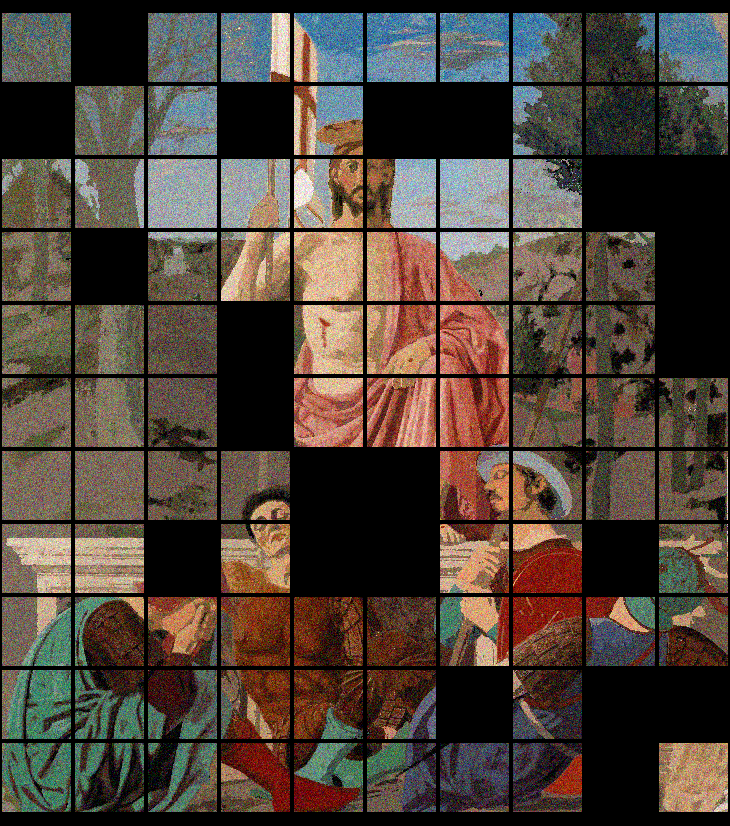
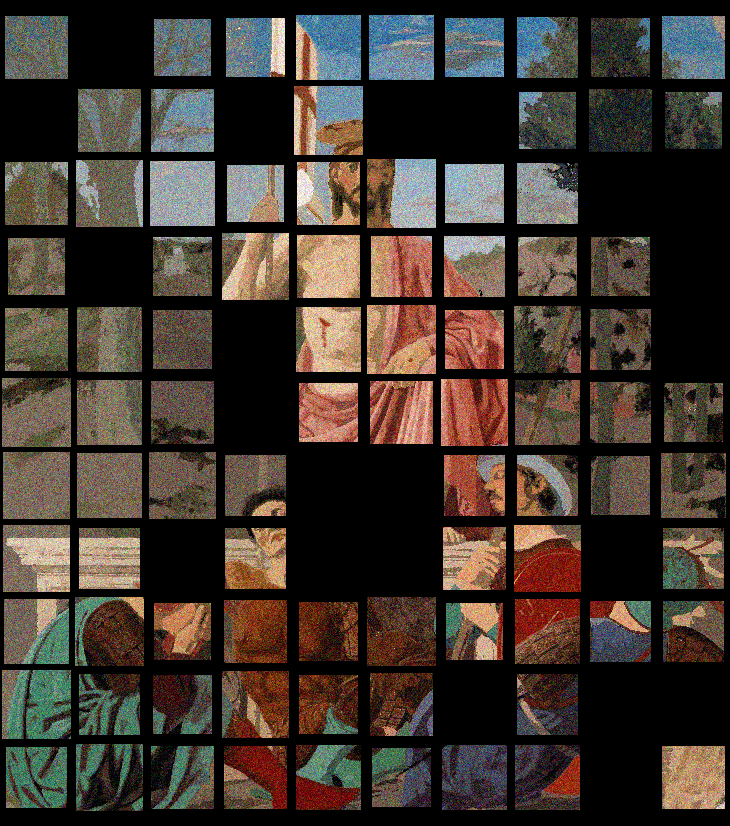
commit

diff --git a/simulated_frescoes_generation/irregular_dafne2/generate_dataset.m b/simulated_frescoes_generation/irregular_dafne2/generate_dataset.m
@@ -27,23 +27,23 @@ function generate_dataset()
 
         % Parameters
         seed                            = 1;                                                                                              % Seed used for pseudo random number generator (<0=random, >0=fixed seed for reproductibility)
-        verbose                         = false;                                                                                          % Enables/disables display of messages on command window (true or false)
+        verbose                         = true;                                                                                          % Enables/disables display of messages on command window (true or false)
         grayscale_conversion            = false;                                                                                          % Enables/disables grayscale conversion of both fresco and fragment images (true or false)
         interpolation_type              = 'nearest';                                                                                      % Interpolation type for reconstructing frescoes from fragments (nearest, bilinear, bicubic, etc.)
         nb_attempts                     = 100;                                                                                            % Number of attempts when extracting random patches from fresco images (>0)
         padding_factor                  = 1.2;                                                                                            % Factor by which fragment images are enlarged before saving; e.g. 1.2 means 20% of enlargement (>=0)
-        fragments_palette_sizes         = [10,256];                                                                                       % Reduced number of color for fading on fragment images (vector with entries in {0,...,256})
-        fragments_erosion_rates         = [0.0,0.003];                                                                                    % Percentages of fragments erosion, relatively to the fresco image size (vector with entries in [0,1])
-        fragments_noise_stds            = [0.0,0.01];                                                                                     % Standard deviations of Gaussian noise applied on each fragment (vector of positive reals)
-        fragments_missing_rates         = [0.0,0.2];                                                                                      % Percentages of missing fragments (vector with entries in [0,1])
-        fragments_spurious_rates        = [0.0,0.2];                                                                                      % Percentages of spurious fragments (vector with entries in [0,1])
-        fragments_erosion_factors_range = [1.0,1.0];                                                                                      % Range of erosion factors for varying erosion radii in the same fresco (pair of positive reals)
+        fragments_palette_sizes         = [10];                                                                                       % Reduced number of color for fading on fragment images (vector with entries in {0,...,256})
+        fragments_erosion_rates         = [0.003];                                                                                    % Percentages of fragments erosion, relatively to the fresco image size (vector with entries in [0,1])
+        fragments_noise_stds            = [0.01];                                                                                     % Standard deviations of Gaussian noise applied on each fragment (vector of positive reals)
+        fragments_missing_rates         = [0.2];                                                                                      % Percentages of missing fragments (vector with entries in [0,1])
+        fragments_spurious_rates        = [0.2];                                                                                      % Percentages of spurious fragments (vector with entries in [0,1])
+        fragments_erosion_factors_range = [1.0,4.0];                                                                                      % Range of erosion factors for varying erosion radii in the same fresco (pair of positive reals)
         fragments_scale_factors_range   = [1.0,1.0];                                                                                      % Range of scale factors of spuriously generated fragments (pair of positive reals)
-        fresco_palette_sizes            = [10,256];                                                                                       % Reduced number of color for fading on fresco image (vector with entries in {0,...,256})
+        fresco_palette_sizes            = [10];                                                                                       % Reduced number of color for fading on fresco image (vector with entries in {0,...,256})
         fresco_missing_parts_rates      = 0.0:0.1:1.0;                                                                                    % Percentages of missing parts of the fresco image (vector with entries in [0,1])
         fresco_missing_parts_params     = struct('type', 'power_law', 'exponent', 1.8);                                                   % Parameters for simulating degradations of the fresco image (struct)
-        fresco_noise_stds               = [0.0,0.01];                                                                                     % Standard deviations of Gaussian noise of the fresco image (vector of positive reals)
-        fresco_fragmentation_min_dists  = [0.05,0.10,0.15];                                                                               % Minimum distances between sampled location of fragments, relatively to the fresco image size (vector of positive reals)
+        fresco_noise_stds               = [0.01];                                                                                     % Standard deviations of Gaussian noise of the fresco image (vector of positive reals)
+        fresco_fragmentation_min_dists  = [0.1];                                                                               % Minimum distances between sampled location of fragments, relatively to the fresco image size (vector of positive reals)
         fresco_fragmentation_params     = struct('noise_exponent', 1.0, 'uncertainty_band_size', 0.5, ...
                                                  'beta', 0.5, 'metric', 'euclidean');                                                     % Parameters for simulating fragmentation of frescoes (struct)
         input_frescoes_dir              = ['..' filesep '..' filesep '..' filesep 'data' filesep 'simulated' filesep 'irregular_dafne1']; % Input frescoes directory (string)
@@ -80,8 +80,8 @@ function generate_dataset()
         end
 
         % We loop over input fresco filenames
-        %parfor i=1:numel(input_frescoes_fns)
-        for i=1:numel(input_frescoes_fns)
+        %for i=1:numel(input_frescoes_fns)
+        for i=46
             % We create output directory or delete it
             [~,fresco_name,~] = fileparts(input_frescoes_fns{i});
             all_other_fns     = setdiff(input_frescoes_fns, input_frescoes_fns{i});
@@ -96,7 +96,6 @@ function generate_dataset()
 
             % We load fresco image and get its size
             [im_fresco_color,~] = load_image(input_frescoes_fns{i}, grayscale_conversion);
-            im_fresco_color     = imresize(im_fresco_color, 0.25);
             fresco_size         = size(im_fresco_color,[1,2]);
             nb_channels         = size(im_fresco_color,3);
 

diff --git a/simulated_frescoes_generation/regular/generate_dataset.m b/simulated_frescoes_generation/regular/generate_dataset.m
@@ -24,24 +24,24 @@ function generate_dataset()
 
         % Parameters
         seed                            = 1;                                                                                              % Seed used for pseudo random number generator (<0=random, >0=fixed seed for reproductibility)
-        verbose                         = true;                                                                                           % Enables/disables display of messages on command window (true or false)
-        fragments_sizes                 = {[0.1,0.1]};                                                  % Fragment sizes {[sy,sx]}_{i=1}^n in percentage of the smallest size of the fresco image (cell array with vectors in ]0,1[^2)
+        verbose                         = false;                                                                                          % Enables/disables display of messages on command window (true or false)
+        fragments_sizes                 = {[0.1,0.1],[0.15,0.15],[0.2,0.2],[0.25,0.25]};                                                  % Fragment sizes {[sy,sx]}_{i=1}^n in percentage of the smallest size of the fresco image (cell array with vectors in ]0,1[^2)
         grayscale_conversion            = false;                                                                                          % Enables/disables grayscale conversion of both fresco and fragment images (true or false)
         interpolation_type              = 'nearest';                                                                                      % Interpolation type for reconstructing frescoes from fragments (nearest, bilinear, bicubic, etc.)
         nb_attempts                     = 100;                                                                                            % Number of attempts when extracting random patches from fresco images (>0)
         padding_factor                  = 1.2;                                                                                            % Factor by which fragment images are enlarged before saving; e.g. 1.2 means 20% of enlargement (>=0)
         fragments_rotation_angles       = [0.0,90.0,180.0,270.0];                                                                         % Available rotation angles per fragment in degrees (vector with entries in [0,360[; CAUTION: angle is counterclockwise)
-        fragments_erosion_rates         = [0.003];                                                                                    % Amount of erosion in percentage of the smallest size of the fresco image (vector with entries in [0,1[)
-        fragments_missing_rates         = [0.2];                                                                                      % Percentages of missing fragments (vector with entries in ]0,1])
-        fragments_spurious_rates        = [0.2];                                                                                      % Percentages of spurious fragments (vector with entries in [0,1[)
-        fragments_palette_sizes         = [10];                                                                                       % Reduced number of color for fading on fragment images (vector with entries in {0,...,256})
-        fragments_noise_stds            = [0.01];                                                                                     % Standard deviations of Gaussian noise applied on each fragment (vector of positive reals)
+        fragments_erosion_rates         = [0.0,0.003,0.006];                                                                              % Amount of erosion in percentage of the smallest size of the fresco image (vector with entries in [0,1[)
+        fragments_missing_rates         = [0.0,0.2,0.4];                                                                                  % Percentages of missing fragments (vector with entries in ]0,1])
+        fragments_spurious_rates        = [0.0,0.2,0.4];                                                                                  % Percentages of spurious fragments (vector with entries in [0,1[)
+        fragments_palette_sizes         = [256];                                                                                          % Reduced number of color for fading on fragment images (vector with entries in {0,...,256})
+        fragments_noise_stds            = [0.0];                                                                                          % Standard deviations of Gaussian noise applied on each fragment (vector of positive reals)
         fragments_erosion_factors_range = [1.0,1.0];                                                                                      % Range of erosion factors for varying erosion radii in the same fresco (pair of positive reals)
         fragments_scale_factors_range   = [1.0,1.0];                                                                                      % Range of scale factors of spuriously generated fragments (pair of positive reals)
         fresco_missing_parts_rates      = 0.0:0.1:1.0;                                                                                    % Percentages of degradation of the fresco image (vector with entries in [0,1])
         fresco_missing_parts_params     = struct('type', 'perlin', 'nb_octaves', 8, 'persistence', 0.3);                                  % Parameters for simulating degradation over the fresco (struct)
-        fresco_palette_sizes            = [10];                                                                                       % Reduced number of color for fading on fresco image (vector with entries in {0,...,256})
-        fresco_noise_stds               = [0.01];                                                                                     % Standard deviations of Gaussian noise of the fresco image (vector of positive reals)
+        fresco_palette_sizes            = [256];                                                                                          % Reduced number of color for fading on fresco image (vector with entries in {0,...,256})
+        fresco_noise_stds               = [0.0];                                                                                          % Standard deviations of Gaussian noise of the fresco image (vector of positive reals)
         input_frescoes_dir              = ['..' filesep '..' filesep '..' filesep 'data' filesep 'simulated' filesep 'irregular_dafne1']; % Input frescoes directory (string)
         input_frescoes_fns              = get_files_list(input_frescoes_dir);                                                             % Input fresco filenames (cell array of strings)
         output_frescoes_dir             = ['..' filesep '..' filesep '..' filesep 'data' filesep 'simulated' filesep 'regular'];          % Output frescoes directory (string)
@@ -76,8 +76,7 @@ function generate_dataset()
         end
 
         % We loop over input fresco filenames
-        %for i=1:numel(input_frescoes_fns)
-        for i=46
+        for i=1:numel(input_frescoes_fns)
             % We create output directory or delete it
             [~,fresco_name,~] = fileparts(input_frescoes_fns{i});
             all_other_fns     = setdiff(input_frescoes_fns, input_frescoes_fns{i});

diff --git a/simulated_frescoes_generation/irregular_dafne2/README.md b/simulated_frescoes_generation/irregular_dafne2/README.md
@@ -5,8 +5,8 @@ takes the fresco models from [1] as input and generates new data by simulating f
 color fading) and fragment images (noise, erosion and color fading). The generated fragments are of arbitrary shape. The fragmentation process is described 
 in the next section. An example of illustration is given below for the fresco ``Resurrection'' from Piero Della Francesca.
 
-![Full fresco model with color fading, noise and missing parts](https://ibb.co/PGDmDn4)
-![Ideal reconstruction](https://ibb.co/PGDmDn4)
+![Full fresco model with missing parts](pics/example_fresco_model.png)
+![Ideal reconstruction with neighboring relationships](pics/example_reconstruction_n.png)
 
 Fragmentation process
 ---------------------
